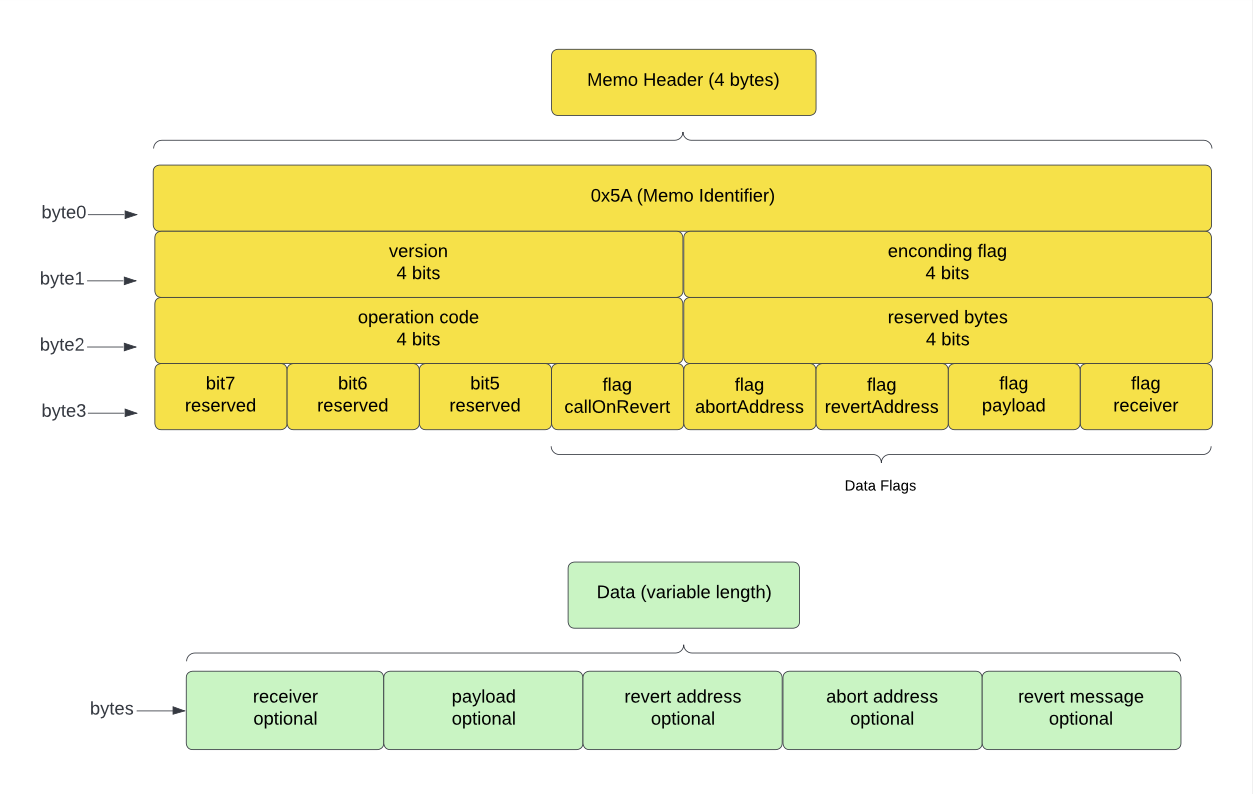
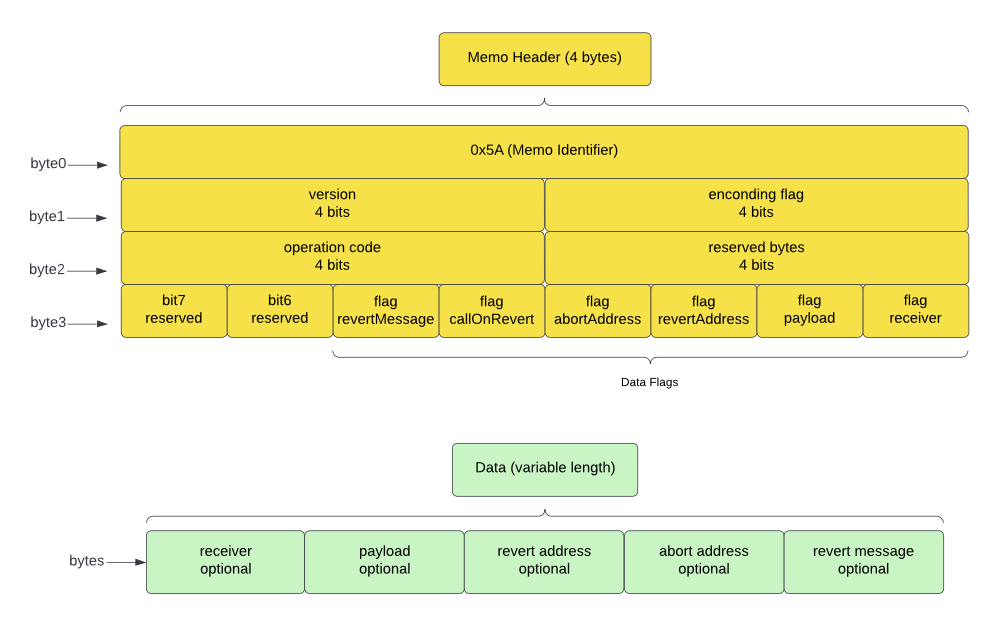
enable bitcoin revertMessage and ignore CallOnRevert flag

diff --git a/pkg/memo/fields_v0_test.go b/pkg/memo/fields_v0_test.go
@@ -12,8 +12,8 @@ import (
 )
 
 const (
-	// flagsAllFieldsSet sets all fields: [receiver, payload, revert address, abort address, CallOnRevert]
-	flagsAllFieldsSet = 0b00011111
+	// flagsAllFieldsSet sets all fields: [receiver, payload, revert address, abort address, CallOnRevert, revert message]
+	flagsAllFieldsSet = 0b00111111
 )
 
 func Test_V0_Pack(t *testing.T) {
@@ -58,13 +58,13 @@ func Test_V0_Pack(t *testing.T) {
 			name:      "pack all fields with compact encoding",
 			opCode:    memo.OpCodeDepositAndCall,
 			encodeFmt: memo.EncodingFmtCompactShort,
-			dataFlags: flagsAllFieldsSet, // all fields are set
+			dataFlags: 0b00101111, // all fields are set except callOnRevert flag
 			fields: memo.FieldsV0{
 				Receiver: fAddress,
 				Payload:  fBytes,
 				RevertOptions: crosschaintypes.RevertOptions{
 					RevertAddress: fString,
-					CallOnRevert:  true,
+					CallOnRevert:  false,             // CallOnRevert is irrelevant to RevertMessage
 					AbortAddress:  fAddress.String(), // it's a ZEVM address
 					RevertMessage: fBytes,
 				},
@@ -88,8 +88,9 @@ func Test_V0_Pack(t *testing.T) {
 			errMsg: "receiver address is empty",
 		},
 		{
-			name:   "unable to get codec on invalid encoding format",
-			opCode: memo.OpCodeDepositAndCall,
+			name:      "unable to get codec on invalid encoding format",
+			opCode:    memo.OpCodeDepositAndCall,
+			dataFlags: 0b00000001,
 			fields: memo.FieldsV0{
 				Receiver: fAddress,
 			},
@@ -155,7 +156,7 @@ func Test_V0_Unpack(t *testing.T) {
 		{
 			name:      "unpack all fields with compact encoding",
 			encodeFmt: memo.EncodingFmtCompactShort,
-			dataFlags: flagsAllFieldsSet, // all fields are set
+			dataFlags: 0b00101111, // all fields are set except callOnRevert flag
 			data: CompactPack(
 				memo.EncodingFmtCompactShort,
 				memo.ArgReceiver(fAddress),
@@ -168,7 +169,7 @@ func Test_V0_Unpack(t *testing.T) {
 				Payload:  fBytes,
 				RevertOptions: crosschaintypes.RevertOptions{
 					RevertAddress: fString,
-					CallOnRevert:  true,
+					CallOnRevert:  false, // CallOnRevert is irrelevant to RevertMessage
 					AbortAddress:  fAddress.String(),
 					RevertMessage: fBytes,
 				},
@@ -257,6 +258,15 @@ func Test_V0_Validate(t *testing.T) {
 			},
 		},
 		{
+			name:      "receiver address flag is not set",
+			opCode:    memo.OpCodeDepositAndCall,
+			dataFlags: 0b00000000, // receiver flag is not set
+			fields: memo.FieldsV0{
+				Receiver: fAddress,
+			},
+			errMsg: "must set receiver address flag",
+		},
+		{
 			name:      "invalid receiver address",
 			opCode:    memo.OpCodeCall,
 			dataFlags: 0b00000001, // receiver flag is set
@@ -266,8 +276,9 @@ func Test_V0_Validate(t *testing.T) {
 			errMsg: "receiver address is empty",
 		},
 		{
-			name:   "payload is not allowed when opCode is deposit",
-			opCode: memo.OpCodeDeposit,
+			name:      "payload is not allowed when opCode is deposit",
+			opCode:    memo.OpCodeDeposit,
+			dataFlags: 0b00000001, // receiver flag is set
 			fields: memo.FieldsV0{
 				Receiver: fAddress,
 				Payload:  fBytes, // payload is mistakenly set
@@ -275,28 +286,30 @@ func Test_V0_Validate(t *testing.T) {
 			errMsg: "payload is not allowed for deposit operation",
 		},
 		{
-			name:      "abort address is invalid",
-			opCode:    memo.OpCodeDeposit,
-			dataFlags: 0b00001000, // abort address flag is set
+			name:      "revert message is empty",
+			opCode:    memo.OpCodeDepositAndCall,
+			dataFlags: 0b00000101, // revert message flag is set
 			fields: memo.FieldsV0{
+				Receiver: fAddress,
 				RevertOptions: crosschaintypes.RevertOptions{
-					AbortAddress: "invalid abort address",
+					CallOnRevert:  true,
+					RevertMessage: []byte("revert message"),
 				},
 			},
-			errMsg: "invalid abort address",
+			errMsg: "revert address is empty",
 		},
 		{
-			name:   "revert message is not allowed when CallOnRevert is false",
-			opCode: memo.OpCodeDeposit,
+			name:      "abort address is invalid",
+			opCode:    memo.OpCodeDeposit,
+			dataFlags: 0b00001001, // abort address flag is set
 			fields: memo.FieldsV0{
 				Receiver: fAddress,
 				RevertOptions: crosschaintypes.RevertOptions{
 					RevertAddress: fString,
-					CallOnRevert:  false,                    // CallOnRevert is false
-					RevertMessage: []byte("revert message"), // revert message is mistakenly set
+					AbortAddress:  "invalid abort address",
 				},
 			},
-			errMsg: "revert message is not allowed when CallOnRevert is false",
+			errMsg: "invalid abort address",
 		},
 	}
 
@@ -351,11 +364,11 @@ func Test_V0_DataFlags(t *testing.T) {
 				Receiver: fAddress,
 				RevertOptions: crosschaintypes.RevertOptions{
 					RevertAddress: fString,
-					CallOnRevert:  true,
+					CallOnRevert:  false, // CallOnRevert is irrelevant to RevertMessage
 					RevertMessage: fBytes,
 				},
 			},
-			expectedFlags: 0b00010101,
+			expectedFlags: 0b00100101,
 		},
 	}
 

diff --git a/pkg/memo/fields_v0.go b/pkg/memo/fields_v0.go
@@ -15,7 +15,8 @@ const (
 	bitPosPayload       uint8 = 1 // payload
 	bitPosRevertAddress uint8 = 2 // revertAddress
 	bitPosAbortAddress  uint8 = 3 // abortAddress
-	bitPosRevertMessage uint8 = 4 // revertMessage
+	bitPosCallOnRevert  uint8 = 4 // callOnRevert
+	bitPosRevertMessage uint8 = 5 // revertMessage
 )
 
 const (
@@ -65,8 +66,13 @@ func (f *FieldsV0) Unpack(encodingFmt EncodingFormat, dataFlags uint8, data []by
 
 // Validate checks if the fields are valid
 func (f *FieldsV0) Validate(opCode OpCode, dataFlags uint8) error {
-	// receiver address must be a valid address
-	if zetabits.IsBitSet(dataFlags, bitPosReceiver) && crypto.IsEmptyAddress(f.Receiver) {
+	// must set receiver address flag
+	if !zetabits.IsBitSet(dataFlags, bitPosReceiver) {
+		return errors.New("must set receiver address flag")
+	}
+
+	// must provide a non-empty receiver address
+	if crypto.IsEmptyAddress(f.Receiver) {
 		return errors.New("receiver address is empty")
 	}
 
@@ -75,16 +81,14 @@ func (f *FieldsV0) Validate(opCode OpCode, dataFlags uint8) error {
 		return errors.New("payload is not allowed for deposit operation")
 	}
 
-	// abort address must be a valid address
-	if zetabits.IsBitSet(dataFlags, bitPosAbortAddress) && !common.IsHexAddress(f.RevertOptions.AbortAddress) {
-		return errors.New("invalid abort address")
+	// must provide the revert address if flag is set
+	if zetabits.IsBitSet(dataFlags, bitPosRevertAddress) && f.RevertOptions.RevertAddress == "" {
+		return errors.New("revert address is empty")
 	}
 
-	// revert message is not allowed when CallOnRevert is false
-	// 1. it's a good-to-have check to make the fields semantically correct.
-	// 2. unpacking won't hit this error as the codec will catch it earlier.
-	if !f.RevertOptions.CallOnRevert && len(f.RevertOptions.RevertMessage) > 0 {
-		return errors.New("revert message is not allowed when CallOnRevert is false")
+	// must provide the abort address if flag is set
+	if zetabits.IsBitSet(dataFlags, bitPosAbortAddress) && !common.IsHexAddress(f.RevertOptions.AbortAddress) {
+		return errors.New("invalid abort address")
 	}
 
 	return nil
@@ -114,8 +118,13 @@ func (f *FieldsV0) DataFlags() uint8 {
 		zetabits.SetBit(&dataFlags, bitPosAbortAddress)
 	}
 
-	// set 'revertMessage' flag if provided
+	// set 'callOnRevert' flag
 	if f.RevertOptions.CallOnRevert {
+		zetabits.SetBit(&dataFlags, bitPosCallOnRevert)
+	}
+
+	// set 'revertMessage' flag if provided
+	if len(f.RevertOptions.RevertMessage) > 0 {
 		zetabits.SetBit(&dataFlags, bitPosRevertMessage)
 	}
 
@@ -146,7 +155,7 @@ func (f *FieldsV0) packFields(codec Codec, dataFlags uint8) ([]byte, error) {
 	}
 
 	// add 'revertMessage' argument optionally
-	if f.RevertOptions.CallOnRevert {
+	if zetabits.IsBitSet(dataFlags, bitPosRevertMessage) {
 		codec.AddArguments(ArgRevertMessage(f.RevertOptions.RevertMessage))
 	}
 
@@ -182,9 +191,11 @@ func (f *FieldsV0) unpackFields(codec Codec, dataFlags byte, data []byte) error 
 		codec.AddArguments(ArgAbortAddress(&abortAddress))
 	}
 
+	// set 'callOnRevert' flag
+	f.RevertOptions.CallOnRevert = zetabits.IsBitSet(dataFlags, bitPosCallOnRevert)
+
 	// add 'revertMessage' argument optionally
-	f.RevertOptions.CallOnRevert = zetabits.IsBitSet(dataFlags, bitPosRevertMessage)
-	if f.RevertOptions.CallOnRevert {
+	if zetabits.IsBitSet(dataFlags, bitPosRevertMessage) {
 		codec.AddArguments(ArgRevertMessage(&f.RevertOptions.RevertMessage))
 	}
 

diff --git a/pkg/memo/memo_test.go b/pkg/memo/memo_test.go
@@ -38,7 +38,7 @@ func Test_Memo_EncodeToBytes(t *testing.T) {
 					Payload:  fBytes,
 					RevertOptions: crosschaintypes.RevertOptions{
 						RevertAddress: fString,
-						CallOnRevert:  true,
+						CallOnRevert:  false,             // CallOnRevert is irrelevant to RevertMessage
 						AbortAddress:  fAddress.String(), // it's a ZEVM address
 						RevertMessage: fBytes,
 					},
@@ -49,7 +49,7 @@ func Test_Memo_EncodeToBytes(t *testing.T) {
 				uint8(memo.EncodingFmtABI),
 				uint8(memo.OpCodeDepositAndCall),
 				0,
-				flagsAllFieldsSet, // all fields are set
+				0b00101111, // all fields are set except callOnRevert flag
 			),
 			expectedData: ABIPack(t,
 				memo.ArgReceiver(fAddress),
@@ -182,7 +182,7 @@ func Test_Memo_DecodeFromBytes(t *testing.T) {
 					Version:     0,
 					EncodingFmt: memo.EncodingFmtABI,
 					OpCode:      memo.OpCodeDepositAndCall,
-					DataFlags:   0b00011111,
+					DataFlags:   0b00111111,
 				},
 				FieldsV0: memo.FieldsV0{
 					Receiver: fAddress,
@@ -203,7 +203,7 @@ func Test_Memo_DecodeFromBytes(t *testing.T) {
 				uint8(memo.EncodingFmtCompactLong),
 				uint8(memo.OpCodeDepositAndCall),
 				0,
-				flagsAllFieldsSet, // all fields are set
+				0b00101111, // all fields are set except callOnRevert flag
 			),
 			data: CompactPack(
 				memo.EncodingFmtCompactLong,
@@ -218,14 +218,14 @@ func Test_Memo_DecodeFromBytes(t *testing.T) {
 					Version:     0,
 					EncodingFmt: memo.EncodingFmtCompactLong,
 					OpCode:      memo.OpCodeDepositAndCall,
-					DataFlags:   0b00011111,
+					DataFlags:   0b00101111,
 				},
 				FieldsV0: memo.FieldsV0{
 					Receiver: fAddress,
 					Payload:  fBytes,
 					RevertOptions: crosschaintypes.RevertOptions{
 						RevertAddress: fString,
-						CallOnRevert:  true,
+						CallOnRevert:  false,             // CallOnRevert is irrelevant to RevertMessage
 						AbortAddress:  fAddress.String(), // it's a ZEVM address
 						RevertMessage: fBytes,
 					},

diff --git a/zetaclient/chains/bitcoin/observer/inbound_test.go b/zetaclient/chains/bitcoin/observer/inbound_test.go
@@ -282,6 +282,8 @@ func Test_NewInboundVoteFromStdMemo(t *testing.T) {
 		r := sample.Rand()
 		revertOptions := crosschaintypes.NewEmptyRevertOptions()
 		revertOptions.RevertAddress = sample.BTCAddressP2WPKH(t, r, &chaincfg.MainNetParams).String()
+		revertOptions.AbortAddress = sample.EthAddress().Hex()
+		revertOptions.RevertMessage = []byte("some revert message")
 
 		// create test event
 		receiver := sample.EthAddress()
@@ -317,7 +319,9 @@ func Test_NewInboundVoteFromStdMemo(t *testing.T) {
 			CoinType:                coin.CoinType_Gas,
 			ProtocolContractVersion: crosschaintypes.ProtocolContractVersion_V2,
 			RevertOptions: crosschaintypes.RevertOptions{
-				RevertAddress: revertOptions.RevertAddress, // should be overridden by revert address
+				RevertAddress: revertOptions.RevertAddress, // should use revert address
+				AbortAddress:  revertOptions.AbortAddress,  // should use abort address
+				RevertMessage: revertOptions.RevertMessage, // should use revert message
 			},
 			Status:           crosschaintypes.InboundStatus_SUCCESS,
 			ConfirmationMode: crosschaintypes.ConfirmationMode_SAFE,

diff --git a/e2e/e2etests/test_bitcoin_std_deposit_and_call_revert_and_abort.go b/e2e/e2etests/test_bitcoin_std_deposit_and_call_revert_and_abort.go
@@ -27,6 +27,7 @@ func TestBitcoinStdMemoDepositAndCallRevertAndAbort(r *runner.E2ERunner, args []
 	require.NoError(r, err)
 
 	// Create a memo to call non-existing contract
+	abortMessage := "abort message"
 	inboundMemo := &memo.InboundMemo{
 		Header: memo.Header{
 			Version:     0,
@@ -37,7 +38,9 @@ func TestBitcoinStdMemoDepositAndCallRevertAndAbort(r *runner.E2ERunner, args []
 			Receiver: sample.EthAddress(), // non-existing contract
 			Payload:  []byte("a payload"),
 			RevertOptions: types.RevertOptions{
-				AbortAddress: testAbortAddr.Hex(),
+				CallOnRevert:  false,
+				AbortAddress:  testAbortAddr.Hex(),
+				RevertMessage: []byte(abortMessage),
 			},
 		},
 	}
@@ -60,4 +63,9 @@ func TestBitcoinStdMemoDepositAndCallRevertAndAbort(r *runner.E2ERunner, args []
 	aborted, err := testAbort.IsAborted(&bind.CallOpts{})
 	require.NoError(r, err)
 	require.True(r, aborted)
+
+	// check revert message was used
+	abortContext, err := testAbort.GetAbortedWithMessage(&bind.CallOpts{}, abortMessage)
+	require.NoError(r, err)
+	require.EqualValues(r, []byte(abortMessage), abortContext.RevertMessage)
 }

diff --git a/zetaclient/chains/bitcoin/observer/inbound.go b/zetaclient/chains/bitcoin/observer/inbound.go
@@ -262,11 +262,12 @@ func (ob *Observer) NewInboundVoteFromStdMemo(
 	event *BTCInboundEvent,
 	amountSats *big.Int,
 ) *crosschaintypes.MsgVoteInbound {
-	// inject the 'revertAddress' specified in the memo, so that
-	// zetacore will create a revert outbound that points to the custom revert address.
+	// inject revert options specified by the memo
+	// 'CallOnRevert' and 'RevertGasLimit' are irrelevant to bitcoin inbound
 	revertOptions := crosschaintypes.RevertOptions{
 		RevertAddress: event.MemoStd.RevertOptions.RevertAddress,
 		AbortAddress:  event.MemoStd.RevertOptions.AbortAddress,
+		RevertMessage: event.MemoStd.RevertOptions.RevertMessage,
 	}
 
 	// check if the memo is a cross-chain call, or simple token deposit

diff --git a/docs/rfc/001_standard_memo_format.md b/docs/rfc/001_standard_memo_format.md
@@ -88,10 +88,10 @@ The ASCII code `0x5A` of letter `'Z'` is used as the identifier of the standard 
 
 ### `byte-3`: Data Flags
 
-|                 | bit 7         | bit 6        | bit 5         | bit 4             | bit 3            | bit 2             | bit 1           | bit 0            |
-|-----------------|---------------|--------------|---------------|-------------------|------------------|-------------------|-----------------|------------------|
-| **Name**        | flag reserved | flag reserved| flag reserved | flag CallOnRevert | flag AbortAddress| flag RevertAddress| flag Payload    | flag Receiver    |
-| **Optional**    | --            | --           | --            | --                | Yes              | Yes               | Yes             | Yes              |
+|                 | bit 7         | bit 6        | bit 5              | bit 4             | bit 3            | bit 2             | bit 1           | bit 0            |
+|-----------------|---------------|--------------|--------------------|-------------------|------------------|-------------------|-----------------|------------------|
+| **Name**        | flag reserved | flag reserved| flag RevertMessage | flag CallOnRevert | flag AbortAddress| flag RevertAddress| flag Payload    | flag Receiver    |
+| **Optional**    | --            | --           | --                 | --                | Yes              | Yes               | Yes             | Yes              |
 <br>
 
 Supported `operation codes` :
